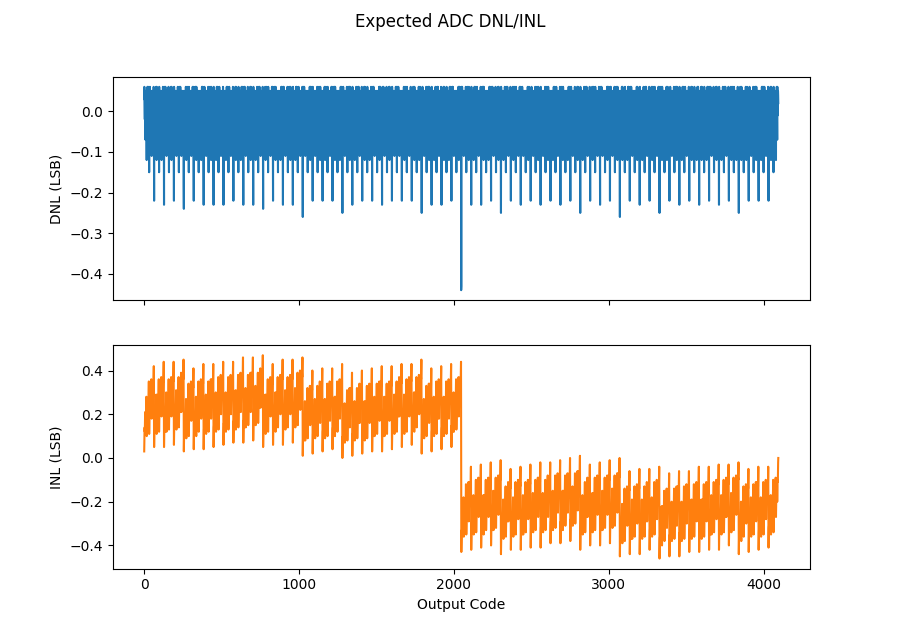
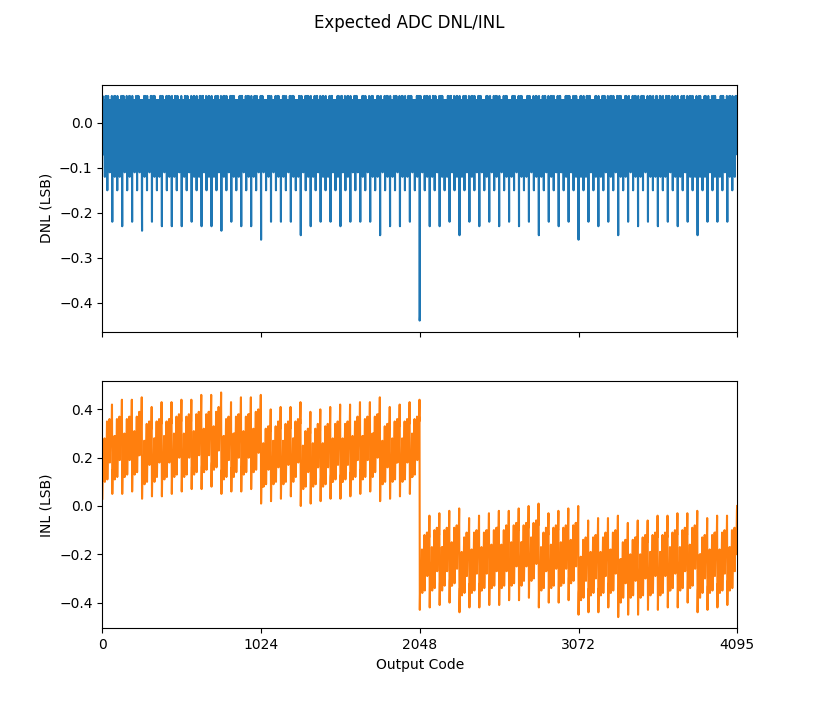
Regenerated INL/DNL plot and modified python script

diff --git a/simulations/DNL_INL_extractor.py b/simulations/DNL_INL_extractor.py
@@ -152,6 +152,8 @@ ax[1].plot(inl, **next(my_colors), label="INL")
 ax[1].set_xlabel("Output Code")
 ax[0].set_ylabel("DNL (LSB)")
 ax[1].set_ylabel("INL (LSB)")
+ax[0].set_xlim(0,2**12-1)
+ax[0].set_xticks([0, 2**10, 2**11, 3*(2**10), 2**12-1])
 fig.suptitle("Expected ADC DNL/INL")
 
 
